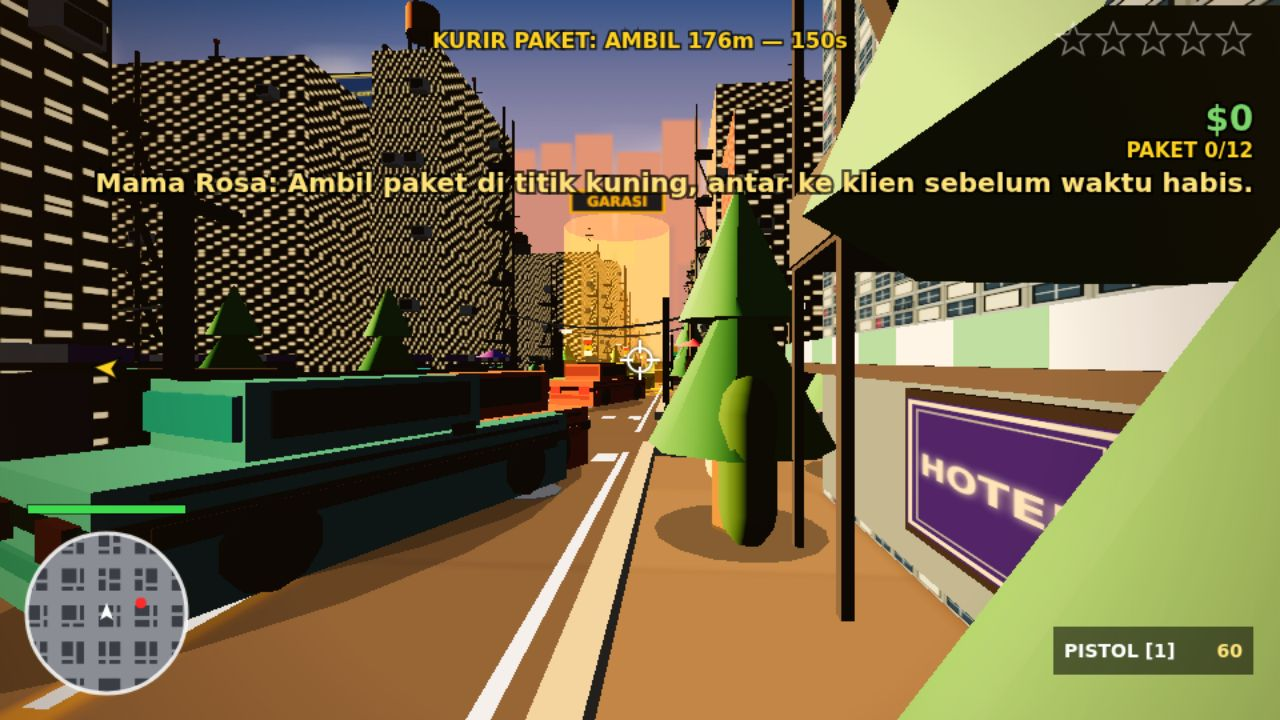
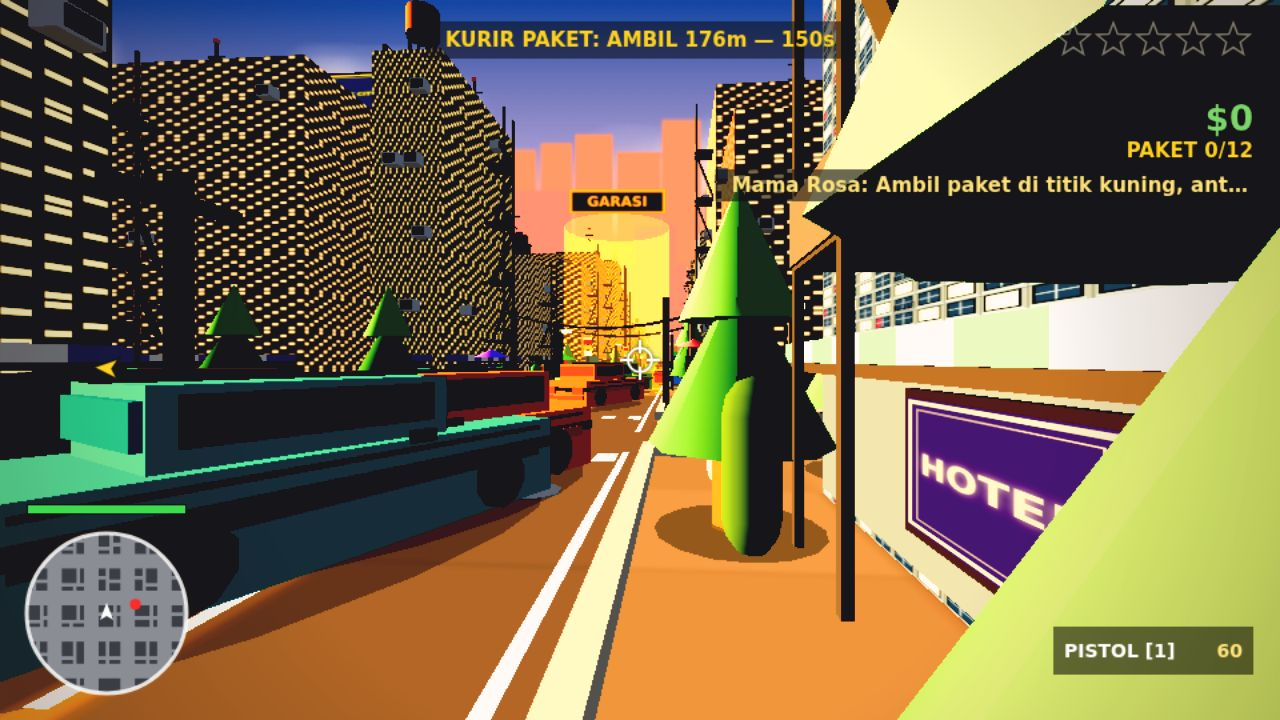
feat(v4): HUD overlap fix, dusk stars gating, sky light floor, retuned shot light (checkpoint)

diff --git a/game/src/render3d.js b/game/src/render3d.js
@@ -83,8 +83,11 @@ function drawSky(gfx, top, mid, hor) {
   ctx.fillStyle = g;
   ctx.fillRect(0, 0, W, H);
   const rnd = skyRng(7);
-  if (night > 0.3) {
-    ctx.globalAlpha = Math.min(1, (night - 0.3) / 0.5);
+  const lum = 0.3 * hor.r + 0.59 * hor.g + 0.11 * hor.b;
+  const starAmt = Math.min(1, Math.max(0, (0.3 - lum) / 0.18));
+  gfx.starAmt = starAmt;
+  if (starAmt > 0.02) {
+    ctx.globalAlpha = starAmt;
     for (let i = 0; i < 140; i++) {
       const y = rnd() * H * 0.3, b = 0.4 + rnd() * 0.6;
       ctx.fillStyle = `rgba(255,255,${220 + Math.floor(rnd() * 35)},${b})`;
@@ -278,7 +281,7 @@ export function initRenderer(canvas, hudCanvas, world) {
   renderer.shadowMap.autoUpdate = false;
   renderer.toneMapping = THREE.ACESFilmicToneMapping;
   renderer.toneMappingExposure = 0.92;
-  canvas.style.filter = 'contrast(1.5) saturate(1.25) brightness(1.0)';
+  canvas.style.filter = 'contrast(1.40) saturate(1.22) brightness(1.02)';
   renderer.outputColorSpace = THREE.SRGBColorSpace;
 
   const scene = new THREE.Scene();
@@ -1452,6 +1455,8 @@ export function renderFrame(gfx, world, player, fps, police, peds, missions, com
   syncCarLights(gfx, world);
   if (gfx.beforeDraw) gfx.beforeDraw();
   if (gfx.interiorBefore) gfx.interiorBefore();
+  if (gfx.hemi.intensity < 0.40) gfx.hemi.intensity = 0.40;
+  if (gfx.ambient.intensity < 0.14) gfx.ambient.intensity = 0.14;
   if (gfx.frameNo++ % 2 === 0) gfx.renderer.shadowMap.needsUpdate = true;
   gfx.renderer.render(gfx.scene, gfx.camera);
   if (gfx.interiorAfter) gfx.interiorAfter();
@@ -1587,9 +1592,9 @@ export function drawHud(ctx, world, p, fps, police, missions, camera, combat) {
     ctx.textAlign = 'right';
     ctx.fillStyle = '#fff'; ctx.font = 'bold 24px sans-serif';
     ctx.shadowColor = 'rgba(0,0,0,0.8)'; ctx.shadowBlur = 4;
-    ctx.fillText(String(Math.round(Math.abs(car.speed) * 0.36)), 930, 500);
+    ctx.fillText(String(Math.round(Math.abs(car.speed) * 0.36)), 930, 452);
     ctx.font = 'bold 12px sans-serif'; ctx.fillStyle = '#ddd';
-    ctx.fillText('KM/H', 930, 518);
+    ctx.fillText('KM/H', 930, 466);
     ctx.shadowBlur = 0; ctx.textAlign = 'left';
   }
 
@@ -1644,9 +1649,13 @@ function drawMission(ctx, p, missions, camera) {
   if (!text) return;
   ctx.save();
   ctx.textAlign = 'center';
-  ctx.font = 'bold 16px sans-serif';
-  ctx.lineWidth = 3; ctx.strokeStyle = 'rgba(0,0,0,0.75)'; ctx.fillStyle = '#ffd21f';
-  ctx.strokeText(text, 480, 36); ctx.fillText(text, 480, 36);
+  ctx.font = 'bold 15px sans-serif';
+  let shown = text;
+  while (shown.length > 1 && ctx.measureText(shown).width > 592) shown = shown.slice(0, -2).trimEnd() + '\u2026';
+  const pw = Math.min(620, ctx.measureText(shown).width + 28);
+  ctx.fillStyle = 'rgba(8,8,14,0.55)'; ctx.fillRect(480 - pw / 2, 16, pw, 28);
+  ctx.fillStyle = '#ffd21f';
+  ctx.fillText(shown, 480, 35);
   const t = missions.target, focus = p.car || p;
   if (t && camera) {
     const fx = focus.x - WORLD_W / 2 - camera.position.x, fz = focus.y - WORLD_H / 2 - camera.position.z;

diff --git a/game/src/shots.js b/game/src/shots.js
@@ -12,6 +12,8 @@ const COP_COLOR = '#2456c4';
 const HALF_PI = Math.PI / 2;
 
 const COP_QUIET_SECONDS = 0.5;
+const GRADE_FILTER = 'contrast(1.40) saturate(1.22) brightness(1.02)';
+const BLACK_FLOOR = 'rgb(22,22,26)';
 
 function seedRandom() {
   let s = SEED;
@@ -77,7 +79,7 @@ function placePeds(c, spots) {
 
 const SHOTS = {
   street: {
-    light: { hemi: 0.12, ambient: 0.03, sun: 14, exposure: 2.6, sunColor: '#ffb066', sunDir: [-700, 170, -120], hemiSky: '#7f9cc8', hemiGnd: '#2a1c14' },
+    light: { hemi: 0.12, ambient: 0.03, sun: 16, exposure: 2.75, sunColor: '#ffb066', sunDir: [-700, 140, -120], hemiSky: '#7f9cc8', hemiGnd: '#2a1c14' },
     hour: 17.5,
     setup(c) {
       const { player, world, police } = c;
@@ -105,7 +107,7 @@ const SHOTS = {
   },
 
   chase: {
-    light: { hemi: 0.15, ambient: 0.03, sun: 14, exposure: 2.8, sunColor: '#b8ccff', sunDir: [-500, 260, -200], hemiSky: '#6a7fb8', hemiGnd: '#1a1a24' },
+    light: { hemi: 0.15, ambient: 0.03, sun: 14, exposure: 1.2, sunColor: '#b8ccff', sunDir: [-500, 260, -200], hemiSky: '#6a7fb8', hemiGnd: '#1a1a24' },
     hour: 21,
     setup(c) {
       const car = freeCars(c)[0];
@@ -129,7 +131,7 @@ const SHOTS = {
   },
 
   firefight: {
-    light: { hemi: 0.05, ambient: 0.0, sun: 40, exposure: 2.0, sunColor: '#ff9a5a', sunDir: [-650, 120, 250], hemiSky: '#8a72b0', hemiGnd: '#241418' },
+    light: { hemi: 0.05, ambient: 0.0, sun: 40, exposure: 1.5, sunColor: '#ff9a5a', sunDir: [-650, 120, 250], hemiSky: '#8a72b0', hemiGnd: '#241418' },
     hour: 18.9,
     setup(c) {
       const { player, combat, world } = c;
@@ -193,7 +195,7 @@ export function createShot({ world, player, police, peds, gfx, combat, keys, ui 
   const def = SHOTS[NAME];
   if (!def) return null;
   const c = { world, player, police, peds, gfx, combat, keys, ui, pinWanted: false };
-  let ready = false, hooked = false;
+  let ready = false, hooked = false, floorEl = null;
   setHour(gfx, def.hour);
   const applyLight = () => {
     const L = def.light;
@@ -203,6 +205,12 @@ export function createShot({ world, player, police, peds, gfx, combat, keys, ui 
     if (L.sunColor) gfx.sun.color.set(L.sunColor);
     if (L.hemiSky) gfx.hemi.color.set(L.hemiSky);
     if (L.hemiGnd) gfx.hemi.groundColor.set(L.hemiGnd);
+    gfx.renderer.domElement.style.filter = def.filter || GRADE_FILTER;
+    if (!floorEl) {
+      floorEl = document.createElement('div');
+      floorEl.style.cssText = `position:absolute;inset:0;pointer-events:none;mix-blend-mode:lighten;background:${BLACK_FLOOR}`;
+      gfx.hud.canvas.parentNode.appendChild(floorEl);
+    }
   };
   if (def.light && def.light.sunDir) gfx.sunDirOverride = new THREE.Vector3(...def.light.sunDir);
   let elapsed = 0;

diff --git a/game/src/ui.js b/game/src/ui.js
@@ -73,11 +73,15 @@ function drawPlaying(ctx, ui) {
   const pk = 'PAKET ' + ui.pkCount + '/' + ui.pkTotal;
   ctx.strokeText(pk, W - 20, 118); ctx.fillText(pk, W - 20, 118);
   ctx.font = 'bold 26px sans-serif';
-  ctx.font = 'bold 20px sans-serif';
+  ctx.font = 'bold 15px sans-serif';
   ui.toasts.forEach((t, i) => {
     ctx.globalAlpha = Math.max(0, Math.min(1, t.t / ((t.max || TOAST_SECONDS) * 0.4)));
+    let s = t.text;
+    while (s.length > 1 && ctx.measureText(s).width > 392) s = s.slice(0, -2).trimEnd() + '\u2026';
+    const tw = Math.min(420, ctx.measureText(s).width + 24), y = 144 + i * 28;
+    ctx.fillStyle = 'rgba(8,8,14,0.6)'; ctx.fillRect(W - 20 - tw + 8, y - 17, tw, 24);
     ctx.fillStyle = '#ffe27a';
-    ctx.strokeText(t.text, W - 20, 144 + i * 26); ctx.fillText(t.text, W - 20, 144 + i * 26);
+    ctx.fillText(s, W - 20 - 4, y);
   });
   if (ui.prompt) {
     ctx.globalAlpha = 1; ctx.textAlign = 'center'; ctx.font = 'bold 18px sans-serif';
